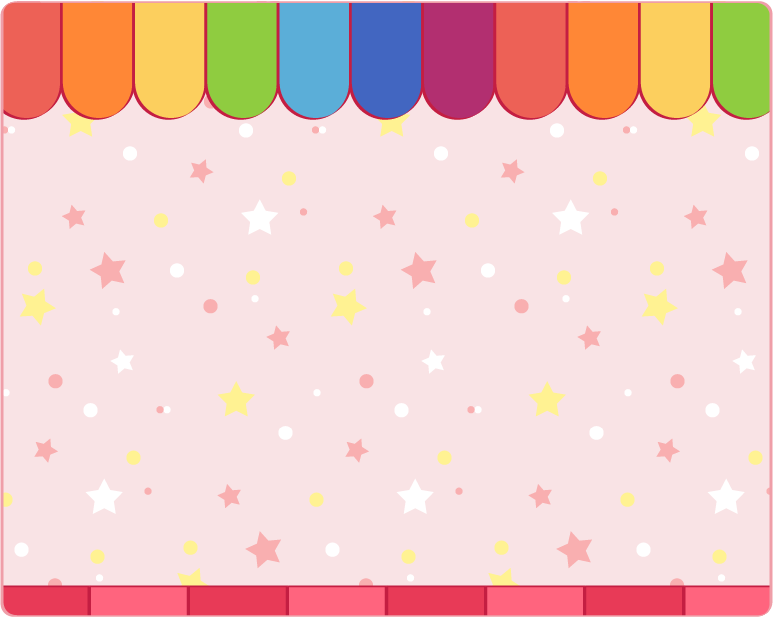
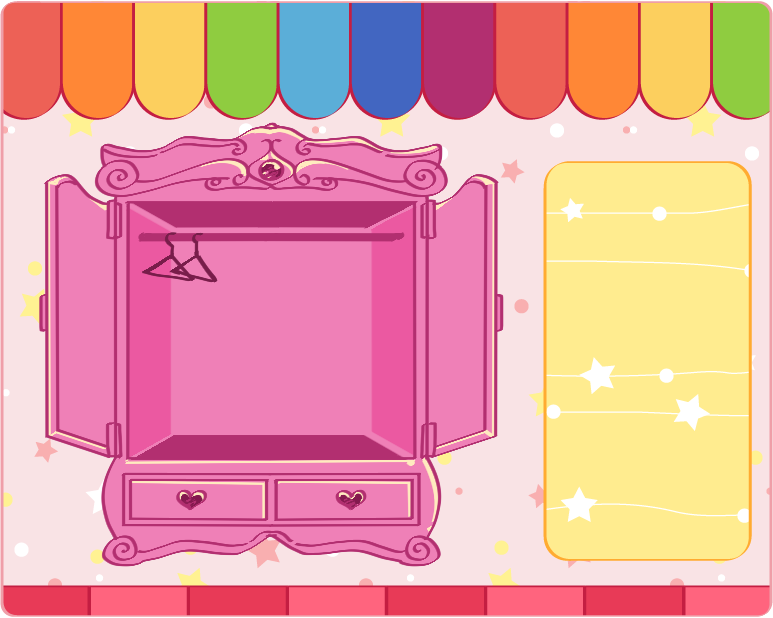
완성!!
인가?

diff --git a/js/game-joy.js b/js/game-joy.js
@@ -7,47 +7,55 @@ var gameJoyState = new Phaser.Class({
     },
 
     preload: function() {
-        this.load.image('joy-area', 'assets/game-joy/joy-back.png');
+        this.load.image('joy-closet-0', 'assets/game-joy/joy-back.png');
+        this.load.image('joy-closet-1', 'assets/game-joy/joy-back-1.png');
+        this.load.image('joy-closet-2', 'assets/game-joy/joy-back-2.png');
+        this.load.image('joy-closet-3', 'assets/game-joy/joy-back-3.png');
+        this.load.image('joy-timer', 'assets/game-joy/timer.png');
         this.load.spritesheet('joy-cards', 'assets/game-joy/cards.png', { frameWidth: 98, frameHeight: 98 });
 
     },
 
     create: function() {
+        game.scene.sleep('map');
 
         this.isStarted = false;
+        this.initialTime = 30;
 
         gameBG = this.add.image(0, 0, 'game').setOrigin(0, 0); 
         out = this.add.image(902, 60, 'game-out');
         out.setInteractive().on('pointerdown', function() { game.scene.stop('joy'); game.scene.wake('map'); }, this)
 
-        this.area = this.add.image(441, 360, 'joy-area');
-        this.level = [
-            [1, 1, 4, 5, 12, 3],
-            [2, 3, 11, 10, 9, 6],
-            [9, 8, 7, 5, 11, 12],
-            [10, 8, 4, 6, 7, 2]
-        ];
-        now = [];
+        this.area = this.add.image(441, 360, 'joy-closet-0');
+        this.closet1 = this.add.image(441, 360, 'joy-closet-1'); this.closet1.visible = false;
+        this.closet2 = this.add.image(441, 360, 'joy-closet-2'); this.closet2.visible = false;
+        this.closet3 = this.add.image(441, 360, 'joy-closet-3'); this.closet3.visible = false;
+        this.add.image(881, 198, 'joy-timer');
 
-        this.cardsOpen = this.add.group();
-        Cards = this.physics.add.group();
-        for (var i = 0; i < 4; i++) {
-            for (var j = 0; j < 6; j++) {
-                var open = this.physics.add.sprite(165 + (109 * j), 241 + (109 * i), 'joy-cards', this.level[i][j]);
-                this.cardsOpen.add(open);
-                var card = this.physics.add.sprite(165 + (109 * j), 241 + (109 * i), 'joy-cards');
-                Cards.add(card);
-            }
+        this.zone = this.add.zone(325, 382, 286, 258).setRectangleDropZone(286, 258);
+        var graphics = this.add.graphics();
+        graphics.lineStyle(2, 0xffff00);
+        graphics.strokeRect(this.zone.x - this.zone.input.hitArea.width / 2, this.zone.y - this.zone.input.hitArea.height / 2, this.zone.input.hitArea.width, this.zone.input.hitArea.height);
+
+        this.Clothes = this.physics.add.group();
+        for (let i = 0; i < 36; i++) {
+            let clothes = this.physics.add.sprite(710 + Phaser.Math.Between(-40, 40), 420 + Phaser.Math.Between(-130, 130), 'joy-cards', Phaser.Math.Between(1, 12)).setInteractive({ draggable: true });
+            this.Clothes.add(clothes);
         }
 
-        Cards.children.iterate(function(child) {
-            child.setInteractive().on('pointerdown', function() {
-                let COL = (child.y - 241) / 109;
-                let ROW = (child.x - 165) / 109;
-                now.push(ROW, COL);
-                child.disableBody(true, true); 
-            }, this);
+        this.input.on('drag', function(pointer, gameObject, dragX, dragY) {
+            gameObject.x = dragX;
+            gameObject.y = dragY;
         });
+
+        this.input.on('drop', function(pointer, gameObject, dropZone) {
+            gameObject.x = dropZone.x;
+            gameObject.y = dropZone.y;
+            gameObject.input.enabled = false;
+            gameObject.disableBody(true, true);
+        })
+
+        this.timer = this.add.text(860, 198, this.initialTime.toString(), {fontFamily: 'Arial', fontSize: 36, color: '#000000'}).setDepth(100);
 
         pressToStart = this.add.image(441, 360, 'press-to-start'); 
 
@@ -67,25 +75,16 @@ var gameJoyState = new Phaser.Class({
 
                 if (cursors.space.isDown) {
                     this.isStarted = true; pressToStart.visible = false;
+                    this.time.addEvent({delay: 1000, callback: function() { this.initialTime -= 1; this.timer.setText(this.initialTime.toString()); }, callbackScope: this, loop: true})
                 }
             } else {
-                if (now.length === 4) {
-                    console.log(now);
-                    if (!this.checkNow(now)) {
-
-                        var wrongOne = this.physics.add.sprite(165 + (109 * now[0]), 241 + (109 * now[1]), 'joy-cards');
-                        var wrongTwo = this.physics.add.sprite(165 + (109 * now[2]), 241 + (109 * now[3]), 'joy-cards');
-                        Cards.add(wrongOne); Cards.add(wrongTwo);
-                        
-
-                        now.length = 0;
-
-                    } else {
-
-                        now.length = 0;
-
-                    }
                 
+                if (this.Clothes.countActive() == 26) {
+                    this.closet1.visible = true;
+                } else if (this.Clothes.countActive() == 16) {
+                    this.closet2.visible = true;
+                } else if (this.Clothes.countActive() == 6) {
+                    this.closet3.visible = true;
                 }
 
             }
@@ -94,31 +93,12 @@ var gameJoyState = new Phaser.Class({
     },
 
     isGameOver: function() {
-
+        return this.initialTime === 0;
     },
 
     isWon: function() {
-        return Cards.countActive() === 0;
+        return this.Clothes.countActive() === 0;
     },
-
-    checkNow: function(arr) {
-        let oneCol = arr[0];
-        let oneRow = arr[1];
-        let twoCol = arr[2];
-        let twoRow = arr[3];
-        let result;
-
-
-        if (this.level[oneRow][oneCol] === this.level[twoRow][twoCol]) {
-            console.log('맞췄다!');
-            result = true;
-        } else {
-            console.log('틀렸다');
-            result = false; 
-        }
-
-        return result;
-    }
 
 
 });

diff --git a/js/call-junha.js b/js/call-junha.js
@@ -9,7 +9,9 @@ var gameCallState = new Phaser.Class({
     preload: function() {
         this.load.image('call-bg', 'assets/game-call/bg.png');
         this.load.image('call-reciever', 'assets/game-call/call.png');
-        this.load.image('call-buttons', 'assets/game-call/buttons.png', {frameWidth: 49, frameHeight: 50});
+        this.load.spritesheet('junha-buttons', 'assets/game-call/buttons.png', {frameWidth: 50, frameHeight: 50});
+
+        this.load.image('end-mom', 'assets/cuts/1.png');
     },
 
     create: function() {
@@ -17,25 +19,86 @@ var gameCallState = new Phaser.Class({
         this.add.image(480, 360, 'call-bg');
         this.toCall = [];
         
+        this.phone_number1 = this.add.sprite(555, 414, 'junha-buttons', 0);
+        this.phone_number1.setInteractive().on('pointerdown', function() {
+            this.toCall.push('1');
+        }, this);
+        this.phone_number2 = this.add.sprite(628, 414, 'junha-buttons', 1);
+        this.phone_number2.setInteractive().on('pointerdown', function() {
+            this.toCall.push('2'); 
+        }, this);
+        this.phone_number3 = this.add.sprite(702, 414, 'junha-buttons', 2);
+        this.phone_number3.setInteractive().on('pointerdown', function() {
+            this.toCall.push('3'); 
+        }, this);
+        this.phone_number4 = this.add.sprite(555, 472, 'junha-buttons', 3);
+        this.phone_number4.setInteractive().on('pointerdown', function() {
+            this.toCall.push('4'); 
+        }, this);
+        this.phone_number5 = this.add.sprite(628, 472, 'junha-buttons', 4);
+        this.phone_number5.setInteractive().on('pointerdown', function() {
+            this.toCall.push('5'); 
+        }, this);
+        this.phone_number6 = this.add.sprite(702, 472, 'junha-buttons', 5);
+        this.phone_number6.setInteractive().on('pointerdown', function() {
+            this.toCall.push('6'); 
+        }, this);
+        this.phone_number7 = this.add.sprite(555, 531, 'junha-buttons', 6);
+        this.phone_number7.setInteractive().on('pointerdown', function() {
+            this.toCall.push('7'); 
+        }, this);
+        this.phone_number8 = this.add.sprite(628, 531, 'junha-buttons', 7);
+        this.phone_number8.setInteractive().on('pointerdown', function() {
+            this.toCall.push('8'); 
+        }, this);
+        this.phone_number9 = this.add.sprite(702, 531, 'junha-buttons', 8);
+        this.phone_number9.setInteractive().on('pointerdown', function() {
+            this.toCall.push('9'); 
+        }, this);
+        this.phone_number_star = this.add.sprite(555, 589, 'junha-buttons', 9);
+        this.phone_number_star.setInteractive().on('pointerdown', function() {
+            this.toCall.push('*'); 
+        }, this);
+        this.phone_number0 = this.add.sprite(628, 589, 'junha-buttons', 10);
+        this.phone_number0.setInteractive().on('pointerdown', function() {
+            this.toCall.push('0'); 
+        }, this);
+        this.phone_number_shap = this.add.sprite(702, 589, 'junha-buttons', 11);
+        this.phone_number_shap.setInteractive().on('pointerdown', function() {
+            this.toCall.push('#'); 
+        }, this);
+
         this.reciever = this.add.image(627, 285, 'call-reciever');
+        this.reciever.setInteractive().on('pointerdown', function() {
+            if (this.numberText.text == '0163347288') {
+                endMom = this.add.image(480, 360, 'end-mom');
+                // this.tweens.add({targets: endMom, alpha: 1, ease: 'Cubic', duration: 10000});
+            } else { this.toCall.length = 0; }
+        }, this);
+
+
+        this.numberText = this.add.text(430, 50, '', {fontFamily: 'Arial', fontSize: 72, color: '#593C60'})
+
         
-        this.phone_number1 = this.add.sprite(555, 414, 'call-buttons', 0);
-        this.phone_number2 = this.add.sprite(628, 414, 'call-buttons', 1);
-        this.phone_number3 = this.add.sprite(702, 414, 'call-buttons', 2);
-        this.phone_number4 = this.add.sprite(555, 472, 'call-buttons', 3);
-        this.phone_number5 = this.add.sprite(628, 472, 'call-buttons', 4);
-        this.phone_number6 = this.add.sprite(702, 472, 'call-buttons', 5);
-        this.phone_number7 = this.add.sprite(555, 531, 'call-buttons', 6);
-        this.phone_number8 = this.add.sprite(628, 531, 'call-buttons', 7);
-        this.phone_number9 = this.add.sprite(702, 531, 'call-buttons', 8);
-        this.phone_number_star = this.add.sprite(555, 589, 'call-buttons', 9);
-        this.phone_number0 = this.add.sprite(628, 589, 'call-buttons', 10);
-        this.phone_number_shap = this.add.sprite(702, 589, 'call-buttons', 11);
 
     }, 
 
     update: function() {
 
+        this.numberText.setText(this.callNumber(this.toCall));
+
+    },
+
+    callNumber: function(arr) {
+
+        let callNumber = [];
+
+        for (element of arr) {
+            callNumber += element.toString();
+        }
+        // console.log(callNumber);
+
+        return callNumber;
     }
 
 });

diff --git a/js/game-cider.js b/js/game-cider.js
@@ -8,54 +8,59 @@ var gameCiderState = new Phaser.Class({
 
     preload: function() {
         this.load.image('7-bg', 'assets/game-cider/cider-area.png');
-        this.load.spritesheet('7-puzzles', 'assets/game-cider/cider-puzzles.png', {frameWidth: 240, frameHeight: 190});
+        this.load.image('7-cider', 'assets/game-cider/cider.png');
+        this.load.image('7-timer', 'assets/game-cider/timer.png');
+        this.load.spritesheet('7-dust', 'assets/game-cider/dusts.png', {frameWidth: 63, frameHeight: 63});
     },
 
     create: function() {
+        game.scene.sleep('map');
+
         this.isStarted = false;
+        this.initialTime = 30;
 
         gameBG = this.add.image(0, 0, 'game').setOrigin(0, 0); 
         out = this.add.image(902, 60, 'game-out');
         out.setInteractive().on('pointerdown', function() { game.scene.stop('cider'); game.scene.wake('map'); }, this)
 
         this.ciderArea = this.add.image(441, 360, '7-bg');
-        this.ciderPuzzles = this.physics.add.group();
-        
-        this.ciderP1 = this.physics.add.sprite(202, 172, '7-puzzles', this.shuffleArray[0]);
-        this.ciderPuzzles.add(this.ciderP1);
-        this.ciderP2 = this.physics.add.sprite(442, 172, '7-puzzles', this.shuffleArray[1]);
-        this.ciderPuzzles.add(this.ciderP2);
-        this.ciderP3 = this.physics.add.sprite(682, 172, '7-puzzles', this.shuffleArray[2]);
-        this.ciderPuzzles.add(this.ciderP3);
-        this.ciderP4 = this.physics.add.sprite(202, 362, '7-puzzles', this.shuffleArray[3]);
-        this.ciderPuzzles.add(this.ciderP4);
-        this.ciderP5 = this.physics.add.sprite(442, 362, '7-puzzles', this.shuffleArray[4]);
-        this.ciderPuzzles.add(this.ciderP5);
-        this.ciderP6 = this.physics.add.sprite(682, 362, '7-puzzles', this.shuffleArray[5]);
-        this.ciderPuzzles.add(this.ciderP6);
-        this.ciderP7 = this.physics.add.sprite(202, 552, '7-puzzles', this.shuffleArray[6]);
-        this.ciderPuzzles.add(this.ciderP7);
+        this.ciderfigure = this.add.image(441, 360, '7-cider');
+        this.add.image(881, 198, '7-timer');
 
-        this.ciderblack = this.physics.add.sprite(442, 552, '7-puzzles', this.shuffleArray[7]);
+        this.dust1 = this.physics.add.group();
+        for (var i = 0; i < 50; i++) {
+            let dust = this.physics.add.sprite(441 + Phaser.Math.Between(-330, 330), 400 + Phaser.Math.Between(-200, 200), '7-dust', 0);
+            this.dust1.add(dust);
+        }
+        this.dust2 = this.physics.add.group();
+        for (var i = 0; i < 50; i++) {
+            let dust = this.physics.add.sprite(441 + Phaser.Math.Between(-330, 330), 400 + Phaser.Math.Between(-200, 200), '7-dust', 1);
+            this.dust2.add(dust);
+        }
 
-        // 충돌 설정해놓고 충돌하지 않는 방향으로 움직이도록 해야할듯
-        this.physics.add.collider(this.ciderPuzzles, this.ciderblack, this.collideOtherPuzzle, null, this);
-        
-        this.ciderPuzzles.children.iterate(function(child) {
-            let isColliding = child.touching;
+        this.dust1.children.iterate(function(child) {
             child.setInteractive().on('pointerdown', function() {
-                console.log('눌렀다');
-                console.log(isColliding);
-            })
-        });
+                child.disableBody(true, true);
+            }, this)
+        })
+        this.dust2.children.iterate(function(child) {
+            child.setInteractive().on('pointerdown', function() {
+                child.disableBody(true, true);
+            }, this)
+        })
 
         pressToStart = this.add.image(441, 360, 'press-to-start'); 
+
+        this.timer = this.add.text(860, 198, this.initialTime.toString(), {fontFamily: 'Arial', fontSize: 36, color: '#FFFFFF'}).setDepth(100);
 
     },
 
     update: function() {
 
-        if (this.isWon()) {
+        if (this.isGameOver()) {
+            game.scene.stop('cider');
+            game.scene.wake('map');
+        } else if (this.isWon()) {
             Collection.push('cider');
             game.scene.stop('cider');
             game.scene.wake('map');
@@ -65,19 +70,20 @@ var gameCiderState = new Phaser.Class({
 
                 if (cursors.space.isDown) {
                     this.isStarted = true; pressToStart.visible = false;
+                    this.time.addEvent({delay: 1000, callback: function() { this.initialTime -= 1; this.timer.setText(this.initialTime.toString()); }, callbackScope: this, loop: true})
                 }
+            } else {
+
             }
         }
     },
 
-    shuffleArray: [ 3, 2, 0, 6, 1, 7, 4, 5, 8 ],
-
-    isWon: function() {
-
+    isGameOver: function() {
+        return this.initialTime === 0;
     },
 
-    collideOtherPuzzle: function(puzzle, blackpuzzle) {
-
+    isWon: function() {
+        return this.dust1.countActive() + this.dust2.countActive() === 0;
     }
 
 });

diff --git a/js/game-levi.js b/js/game-levi.js
@@ -118,7 +118,7 @@ var gameLeviState = new Phaser.Class({
 
                 if (cursors.space.isDown) {
                     this.isStarted = true; pressToStart.visible = false;
-                    ball.setVelocityY(-200);
+                    ball.setVelocityY(-300);
                 }
             }
 
@@ -147,7 +147,7 @@ var gameLeviState = new Phaser.Class({
         }
     },
 
-    hitPlayer: function(ball, rmc) {
+    hitPlayer: function(ball, player) {
         ball.setVelocityY(ball.body.velocity.y - 5);
 
         let newXVelocity = Math.abs(ball.body.velocity.x) + 5;

diff --git a/js/game-zkp.js b/js/game-zkp.js
@@ -17,6 +17,7 @@ var gameZkpState = new Phaser.Class({
     },
 
     create: function() {
+        game.scene.sleep('map');
 
         this.isStarted = false;
         isRockPressed = false;
